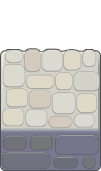
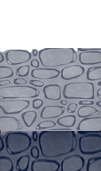
added arcade game to projects & updated texture images

diff --git a/arcade-js/engine.js b/arcade-js/engine.js
@@ -112,8 +112,8 @@ var Engine = (function(global) {
                 'arcade-images/stone-block.png',   // Row 1 of 3 of stone
                 'arcade-images/stone-block.png',   // Row 2 of 3 of stone
                 'arcade-images/stone-block.png',   // Row 3 of 3 of stone
-                'arcade-images/grass-block.png',   // Row 1 of 2 of grass
-                'arcade-images/grass-block.png'    // Row 2 of 2 of grass
+                'arcade-images/dirt-block.png',   // Row 1 of 2 of grass
+                'arcade-images/dirt-block.png'    // Row 2 of 2 of grass
             ],
             numRows = 6, //6
             numCols = 10, //5
@@ -170,6 +170,7 @@ var Engine = (function(global) {
         'arcade-images/stone-block.png',
         'arcade-images/water-block.png',
         'arcade-images/grass-block.png',
+        'arcade-images/dirt-block.png',
         'arcade-images/enemy-bug.png',
         'arcade-images/char-boy.png',
         'arcade-images/enemy-zombie.png',

diff --git a/index.html b/index.html
@@ -121,7 +121,7 @@
           <h4 class="modal-title">Projects</h4>
         </div>
           <div class="modal-body">
-            <p>More projects coming soon!</p>
+            <p><a href="http://fifthstarmarketing.com/arcade">Beta - Arcade Game</a></p>
           </div>
         
         <div class="modal-footer">

diff --git a/css/stylesheet.css b/css/stylesheet.css
@@ -87,7 +87,7 @@ p {
 }
 
 .info {
-    font-size: 1.5em;
+    font-size: 1.25em;
 }
 
 .font-light {
